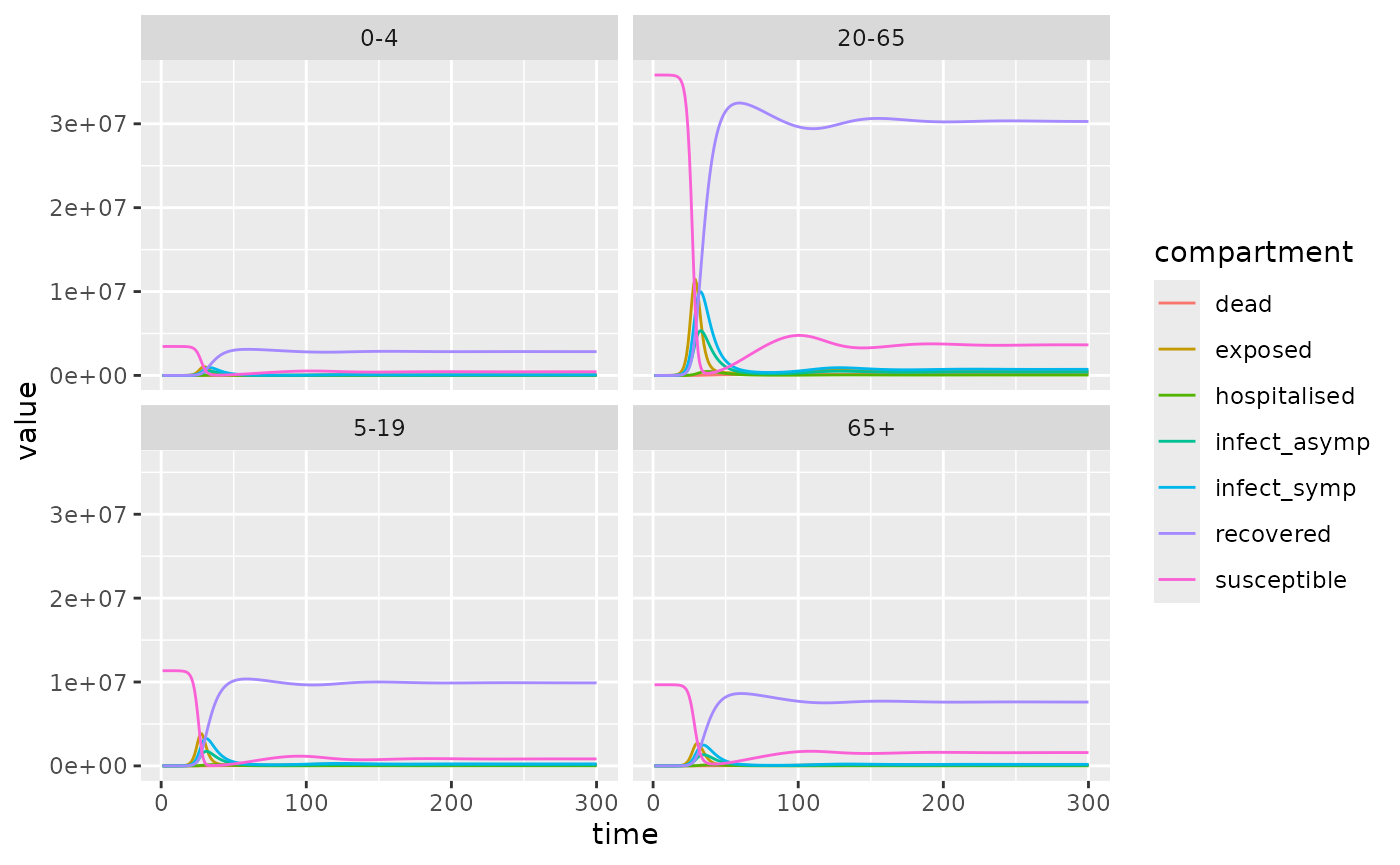
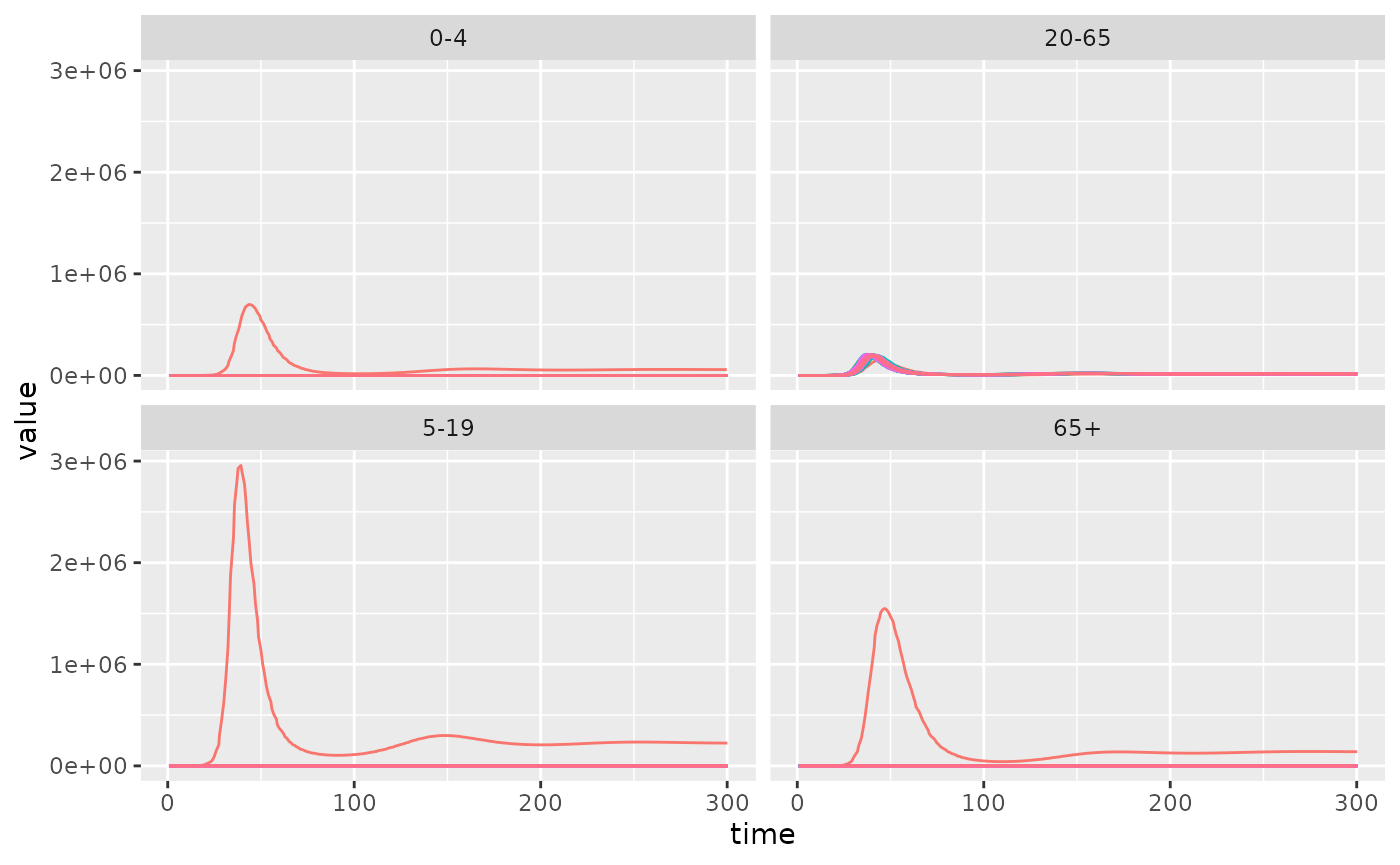
Deploying to gh-pages from @ jameel-institute/daedalus@c90a7111a481db7176b75cfc08c97fa4b471c24d 🚀

diff --git a/articles/daedalus.html b/articles/daedalus.html
@@ -72,7 +72,8 @@ R.</p>
 <p>Load a contact matrix for the U.K. from the <a href="https://cran.r-project.org/package=socialmixr" class="external-link"><em>socialmixr</em>
 package</a>.</p>
 <div class="sourceCode" id="cb2"><pre class="downlit sourceCode r">
-<code class="sourceCode R"><span><span class="va">polymod</span> <span class="op">&lt;-</span> <span class="fu">socialmixr</span><span class="fu">::</span><span class="va"><a href="https://epiforecasts.io/socialmixr/reference/polymod.html" class="external-link">polymod</a></span></span>
+<code class="sourceCode R"><span><span class="co"># NOTE: to be replaced with package data</span></span>
+<span><span class="va">polymod</span> <span class="op">&lt;-</span> <span class="fu">socialmixr</span><span class="fu">::</span><span class="va"><a href="https://epiforecasts.io/socialmixr/reference/polymod.html" class="external-link">polymod</a></span></span>
 <span><span class="co"># suppress messages that clog up test output</span></span>
 <span><span class="va">contact_data</span> <span class="op">&lt;-</span> <span class="fu">socialmixr</span><span class="fu">::</span><span class="fu"><a href="https://epiforecasts.io/socialmixr/reference/contact_matrix.html" class="external-link">contact_matrix</a></span><span class="op">(</span></span>
 <span>  <span class="va">polymod</span>,</span>
@@ -106,34 +107,69 @@ package</a>.</p>
 <span></span>
 <span><span class="co"># multiply by demography vector for absolute values</span></span>
 <span><span class="va">initial_state</span> <span class="op">&lt;-</span> <span class="va">initial_state</span> <span class="op">*</span> <span class="va">demography</span></span></code></pre></div>
+<p>Prepare the initial state container, a 3D tensor.</p>
+<p>Constants <code>N_AGE_GROUPS</code>, <code>N_EPI_COMPARTMENTS</code>,
+<code>N_ECON_SECTORS</code>, <code>i_NOT_WORKING</code> and
+<code>i_WORKING_AGE</code> are package constants.</p>
+<div class="sourceCode" id="cb3"><pre class="downlit sourceCode r">
+<code class="sourceCode R"><span><span class="co"># construct state array, all working age individuals are uniformly</span></span>
+<span><span class="co"># distributed into economic sectors including non-working (hence + 1)</span></span>
+<span><span class="va">state</span> <span class="op">&lt;-</span> <span class="fu"><a href="https://rdrr.io/r/base/array.html" class="external-link">array</a></span><span class="op">(</span></span>
+<span>  <span class="fl">0.0</span>, <span class="fu"><a href="https://rdrr.io/r/base/c.html" class="external-link">c</a></span><span class="op">(</span><span class="va">N_AGE_GROUPS</span>, <span class="va">N_EPI_COMPARTMENTS</span>, <span class="va">N_ECON_STRATA</span><span class="op">)</span></span>
+<span><span class="op">)</span></span>
+<span><span class="va">state</span><span class="op">[</span>, , <span class="va">i_NOT_WORKING</span><span class="op">]</span> <span class="op">&lt;-</span> <span class="va">initial_state</span></span>
+<span><span class="va">state</span><span class="op">[</span><span class="va">i_WORKING_AGE</span>, , <span class="op">]</span> <span class="op">&lt;-</span> <span class="fu"><a href="https://rdrr.io/r/base/matrix.html" class="external-link">matrix</a></span><span class="op">(</span></span>
+<span>  <span class="va">state</span><span class="op">[</span><span class="va">i_WORKING_AGE</span>, , <span class="va">i_NOT_WORKING</span><span class="op">]</span> <span class="op">*</span> <span class="fl">1.0</span> <span class="op">/</span> <span class="op">(</span><span class="va">N_ECON_STRATA</span><span class="op">)</span>,</span>
+<span>  nrow <span class="op">=</span> <span class="va">N_EPI_COMPARTMENTS</span>, ncol <span class="op">=</span> <span class="va">N_ECON_STRATA</span></span>
+<span><span class="op">)</span></span>
+<span></span>
+<span><span class="co"># prepare workplace contacts</span></span>
+<span><span class="va">cw</span> <span class="op">&lt;-</span> <span class="fu"><a href="https://rdrr.io/r/base/rep.html" class="external-link">rep</a></span><span class="op">(</span><span class="fl">5.0</span>, <span class="va">N_ECON_SECTORS</span><span class="op">)</span></span>
+<span></span>
+<span><span class="co"># prepare consumer worker contacts</span></span>
+<span><span class="va">consumer_contacts_per_sector</span> <span class="op">&lt;-</span> <span class="fu">withr</span><span class="fu">::</span><span class="fu"><a href="https://withr.r-lib.org/reference/with_seed.html" class="external-link">with_seed</a></span><span class="op">(</span></span>
+<span>  <span class="fl">0L</span>, <span class="fu"><a href="https://rdrr.io/r/stats/Uniform.html" class="external-link">runif</a></span><span class="op">(</span><span class="va">N_ECON_SECTORS</span>, min <span class="op">=</span> <span class="fl">5.0</span>, max <span class="op">=</span> <span class="fl">10.0</span><span class="op">)</span></span>
+<span><span class="op">)</span></span>
+<span><span class="va">cmcw</span> <span class="op">&lt;-</span> <span class="fu"><a href="https://rdrr.io/r/base/matrix.html" class="external-link">matrix</a></span><span class="op">(</span></span>
+<span>  <span class="va">consumer_contacts_per_sector</span>,</span>
+<span>  nrow <span class="op">=</span> <span class="va">N_ECON_SECTORS</span>, ncol <span class="op">=</span> <span class="va">N_AGE_GROUPS</span></span>
+<span><span class="op">)</span> <span class="op">*</span> <span class="va">demography</span> <span class="op">/</span> <span class="fu"><a href="https://rdrr.io/r/base/sum.html" class="external-link">sum</a></span><span class="op">(</span><span class="va">demography</span><span class="op">)</span></span></code></pre></div>
 </div>
 <div class="section level3">
 <h3 id="run-model">Run model<a class="anchor" aria-label="anchor" href="#run-model"></a>
 </h3>
 <p>The model runs for 100 timesteps (assumed to be days) by default.</p>
-<div class="sourceCode" id="cb3"><pre class="downlit sourceCode r">
+<div class="sourceCode" id="cb4"><pre class="downlit sourceCode r">
 <code class="sourceCode R"><span><span class="va">output</span> <span class="op">&lt;-</span> <span class="fu"><a href="../reference/daedalus.html">daedalus</a></span><span class="op">(</span></span>
-<span>  <span class="va">initial_state</span>,</span>
-<span>  parameters <span class="op">=</span> <span class="fu"><a href="../reference/default_parameters.html">default_parameters</a></span><span class="op">(</span>contact_matrix <span class="op">=</span> <span class="va">contact_matrix</span><span class="op">)</span></span>
+<span>  <span class="va">state</span>,</span>
+<span>  parameters <span class="op">=</span> <span class="fu"><a href="../reference/default_parameters.html">default_parameters</a></span><span class="op">(</span></span>
+<span>    contact_matrix <span class="op">=</span> <span class="va">contact_matrix</span>,</span>
+<span>    contacts_workplace <span class="op">=</span> <span class="va">cw</span>,</span>
+<span>    contacts_consumer_worker <span class="op">=</span> <span class="va">cmcw</span></span>
+<span>  <span class="op">)</span></span>
 <span><span class="op">)</span></span></code></pre></div>
 <p>Get the data in long or ‘tidy’ format using
 <code><a href="../reference/prepare_output.html">prepare_output()</a></code>.</p>
-<div class="sourceCode" id="cb4"><pre class="downlit sourceCode r">
+<div class="sourceCode" id="cb5"><pre class="downlit sourceCode r">
 <code class="sourceCode R"><span><span class="va">data</span> <span class="op">&lt;-</span> <span class="fu"><a href="../reference/prepare_output.html">prepare_output</a></span><span class="op">(</span><span class="va">output</span><span class="op">)</span></span>
 <span></span>
 <span><span class="fu"><a href="https://rdrr.io/r/utils/head.html" class="external-link">head</a></span><span class="op">(</span><span class="va">data</span><span class="op">)</span></span>
-<span><span class="co">#&gt;   time age_group compartment   value</span></span>
-<span><span class="co">#&gt; 1    1       0-4 susceptible 3453667</span></span>
-<span><span class="co">#&gt; 2    2       0-4 susceptible 3453661</span></span>
-<span><span class="co">#&gt; 3    3       0-4 susceptible 3453654</span></span>
-<span><span class="co">#&gt; 4    4       0-4 susceptible 3453643</span></span>
-<span><span class="co">#&gt; 5    5       0-4 susceptible 3453627</span></span>
-<span><span class="co">#&gt; 6    6       0-4 susceptible 3453599</span></span></code></pre></div>
+<span><span class="co">#&gt;   time age_group compartment econ_sector   value</span></span>
+<span><span class="co">#&gt; 1    1       0-4 susceptible    sector_0 3453667</span></span>
+<span><span class="co">#&gt; 2    2       0-4 susceptible    sector_0 3453664</span></span>
+<span><span class="co">#&gt; 3    3       0-4 susceptible    sector_0 3453661</span></span>
+<span><span class="co">#&gt; 4    4       0-4 susceptible    sector_0 3453658</span></span>
+<span><span class="co">#&gt; 5    5       0-4 susceptible    sector_0 3453654</span></span>
+<span><span class="co">#&gt; 6    6       0-4 susceptible    sector_0 3453647</span></span></code></pre></div>
 <p>Plot the data to view the epidemic curve.</p>
-<div class="sourceCode" id="cb5"><pre class="downlit sourceCode r">
-<code class="sourceCode R"><span><span class="fu"><a href="https://ggplot2.tidyverse.org/reference/ggplot.html" class="external-link">ggplot</a></span><span class="op">(</span><span class="va">data</span><span class="op">)</span> <span class="op">+</span></span>
+<div class="sourceCode" id="cb6"><pre class="downlit sourceCode r">
+<code class="sourceCode R"><span><span class="fu"><a href="https://ggplot2.tidyverse.org/reference/ggplot.html" class="external-link">ggplot</a></span><span class="op">(</span></span>
+<span>  <span class="va">data</span><span class="op">[</span><span class="va">data</span><span class="op">$</span><span class="va">compartment</span> <span class="op">==</span> <span class="st">"infect_symp"</span>, <span class="op">]</span></span>
+<span><span class="op">)</span> <span class="op">+</span></span>
 <span>  <span class="fu"><a href="https://ggplot2.tidyverse.org/reference/geom_path.html" class="external-link">geom_line</a></span><span class="op">(</span></span>
-<span>    <span class="fu"><a href="https://ggplot2.tidyverse.org/reference/aes.html" class="external-link">aes</a></span><span class="op">(</span><span class="va">time</span>, <span class="va">value</span>, colour <span class="op">=</span> <span class="va">compartment</span><span class="op">)</span></span>
+<span>    <span class="fu"><a href="https://ggplot2.tidyverse.org/reference/aes.html" class="external-link">aes</a></span><span class="op">(</span><span class="va">time</span>, <span class="va">value</span>, colour <span class="op">=</span> <span class="va">econ_sector</span><span class="op">)</span>,</span>
+<span>    show.legend <span class="op">=</span> <span class="cn">FALSE</span>,</span>
+<span>    position <span class="op">=</span> <span class="st">"jitter"</span></span>
 <span>  <span class="op">)</span> <span class="op">+</span></span>
 <span>  <span class="fu"><a href="https://ggplot2.tidyverse.org/reference/facet_wrap.html" class="external-link">facet_wrap</a></span><span class="op">(</span></span>
 <span>    facets <span class="op">=</span> <span class="fu"><a href="https://ggplot2.tidyverse.org/reference/vars.html" class="external-link">vars</a></span><span class="op">(</span><span class="va">age_group</span><span class="op">)</span></span>

diff --git a/index.html b/index.html
@@ -106,28 +106,60 @@
 <span></span>
 <span><span class="co"># multiply by demography vector for absolute values</span></span>
 <span><span class="va">initial_state</span> <span class="op">&lt;-</span> <span class="va">initial_state</span> <span class="op">*</span> <span class="va">demography</span></span></code></pre></div>
+<p>Prepare the initial state container, a 3D tensor.</p>
+<p>Constants <code>N_AGE_GROUPS</code>, <code>N_EPI_COMPARTMENTS</code>, <code>N_ECON_SECTORS</code>, <code>i_NOT_WORKING</code> and <code>i_WORKING_AGE</code> are package constants.</p>
+<div class="sourceCode" id="cb4"><pre class="downlit sourceCode r">
+<code class="sourceCode R"><span><span class="co"># construct state array, all working age individuals are uniformly</span></span>
+<span><span class="co"># distributed into economic sectors including non-working</span></span>
+<span><span class="va">state</span> <span class="op">&lt;-</span> <span class="fu"><a href="https://rdrr.io/r/base/array.html" class="external-link">array</a></span><span class="op">(</span></span>
+<span>  <span class="fl">0.0</span>,</span>
+<span>  dim <span class="op">=</span> <span class="fu"><a href="https://rdrr.io/r/base/c.html" class="external-link">c</a></span><span class="op">(</span><span class="va">N_AGE_GROUPS</span>, <span class="va">N_EPI_COMPARTMENTS</span>, <span class="va">N_ECON_STRATA</span><span class="op">)</span></span>
+<span><span class="op">)</span></span>
+<span><span class="va">state</span><span class="op">[</span>, , <span class="va">i_NOT_WORKING</span><span class="op">]</span> <span class="op">&lt;-</span> <span class="va">initial_state</span></span>
+<span><span class="va">state</span><span class="op">[</span><span class="va">i_WORKING_AGE</span>, , <span class="op">]</span> <span class="op">&lt;-</span> <span class="fu"><a href="https://rdrr.io/r/base/matrix.html" class="external-link">matrix</a></span><span class="op">(</span></span>
+<span>  <span class="va">state</span><span class="op">[</span><span class="va">i_WORKING_AGE</span>, , <span class="va">i_NOT_WORKING</span><span class="op">]</span> <span class="op">*</span> <span class="fl">1.0</span> <span class="op">/</span> <span class="va">N_ECON_STRATA</span>,</span>
+<span>  nrow <span class="op">=</span> <span class="va">N_EPI_COMPARTMENTS</span>, ncol <span class="op">=</span> <span class="va">N_ECON_STRATA</span></span>
+<span><span class="op">)</span></span>
+<span></span>
+<span><span class="co"># prepare workplace contacts</span></span>
+<span><span class="va">cw</span> <span class="op">&lt;-</span> <span class="fu"><a href="https://rdrr.io/r/base/c.html" class="external-link">c</a></span><span class="op">(</span><span class="fl">0.0</span>, <span class="fu"><a href="https://rdrr.io/r/base/rep.html" class="external-link">rep</a></span><span class="op">(</span><span class="fl">5.0</span>, <span class="va">N_ECON_SECTORS</span> <span class="op">-</span> <span class="fl">1L</span><span class="op">)</span><span class="op">)</span> <span class="co"># no work contacts for non-working</span></span>
+<span></span>
+<span><span class="co"># prepare consumer worker contacts</span></span>
+<span><span class="va">consumer_contacts_per_sector</span> <span class="op">&lt;-</span> <span class="fu">withr</span><span class="fu">::</span><span class="fu"><a href="https://withr.r-lib.org/reference/with_seed.html" class="external-link">with_seed</a></span><span class="op">(</span></span>
+<span>  <span class="fl">0L</span>,</span>
+<span>  <span class="fu">stats</span><span class="fu">::</span><span class="fu"><a href="https://rdrr.io/r/stats/Uniform.html" class="external-link">runif</a></span><span class="op">(</span><span class="va">N_ECON_SECTORS</span>, min <span class="op">=</span> <span class="fl">5.0</span>, max <span class="op">=</span> <span class="fl">10.0</span><span class="op">)</span></span>
+<span><span class="op">)</span></span>
+<span><span class="va">consumer_contacts_per_sector</span><span class="op">[</span><span class="va">i_NOT_WORKING</span><span class="op">]</span> <span class="op">&lt;-</span> <span class="fl">0.0</span></span>
+<span><span class="va">cmcw</span> <span class="op">&lt;-</span> <span class="fu"><a href="https://rdrr.io/r/base/matrix.html" class="external-link">matrix</a></span><span class="op">(</span></span>
+<span>  <span class="va">consumer_contacts_per_sector</span>,</span>
+<span>  nrow <span class="op">=</span> <span class="va">N_ECON_SECTORS</span>, ncol <span class="op">=</span> <span class="va">N_AGE_GROUPS</span></span>
+<span><span class="op">)</span> <span class="op">*</span> <span class="va">demography</span> <span class="op">/</span> <span class="fu"><a href="https://rdrr.io/r/base/sum.html" class="external-link">sum</a></span><span class="op">(</span><span class="va">demography</span><span class="op">)</span></span></code></pre></div>
 </div>
 <div class="section level3">
 <h3 id="run-model">Run model<a class="anchor" aria-label="anchor" href="#run-model"></a>
 </h3>
 <p>The model runs for 100 timesteps (assumed to be days) by default.</p>
-<div class="sourceCode" id="cb4"><pre class="downlit sourceCode r">
+<div class="sourceCode" id="cb5"><pre class="downlit sourceCode r">
 <code class="sourceCode R"><span><span class="va">output</span> <span class="op">&lt;-</span> <span class="fu"><a href="reference/daedalus.html">daedalus</a></span><span class="op">(</span></span>
-<span>  <span class="va">initial_state</span>,</span>
-<span>  parameters <span class="op">=</span> <span class="fu"><a href="reference/default_parameters.html">default_parameters</a></span><span class="op">(</span>contact_matrix <span class="op">=</span> <span class="va">contact_matrix</span><span class="op">)</span></span>
+<span>  <span class="va">state</span>,</span>
+<span>  parameters <span class="op">=</span> <span class="fu"><a href="reference/default_parameters.html">default_parameters</a></span><span class="op">(</span></span>
+<span>    contact_matrix <span class="op">=</span> <span class="va">contact_matrix</span>,</span>
+<span>    contacts_workplace <span class="op">=</span> <span class="va">cw</span>,</span>
+<span>    contacts_consumer_worker <span class="op">=</span> <span class="va">cmcw</span></span>
+<span>  <span class="op">)</span></span>
 <span><span class="op">)</span></span></code></pre></div>
 <p>Get the data in long or ‘tidy’ format using <code><a href="reference/prepare_output.html">prepare_output()</a></code>.</p>
-<div class="sourceCode" id="cb5"><pre class="downlit sourceCode r">
+<div class="sourceCode" id="cb6"><pre class="downlit sourceCode r">
 <code class="sourceCode R"><span><span class="va">data</span> <span class="op">&lt;-</span> <span class="fu"><a href="reference/prepare_output.html">prepare_output</a></span><span class="op">(</span><span class="va">output</span><span class="op">)</span></span>
 <span></span>
 <span><span class="fu"><a href="https://rdrr.io/r/utils/head.html" class="external-link">head</a></span><span class="op">(</span><span class="va">data</span><span class="op">)</span></span>
-<span><span class="co">#&gt;   time age_group compartment   value</span></span>
-<span><span class="co">#&gt; 1    1       0-4 susceptible 3453667</span></span>
-<span><span class="co">#&gt; 2    2       0-4 susceptible 3453661</span></span>
-<span><span class="co">#&gt; 3    3       0-4 susceptible 3453654</span></span>
-<span><span class="co">#&gt; 4    4       0-4 susceptible 3453643</span></span>
-<span><span class="co">#&gt; 5    5       0-4 susceptible 3453627</span></span>
-<span><span class="co">#&gt; 6    6       0-4 susceptible 3453599</span></span></code></pre></div>
+<span><span class="co">#&gt;   time age_group compartment econ_sector   value</span></span>
+<span><span class="co">#&gt; 1    1       0-4 susceptible    sector_0 3453667</span></span>
+<span><span class="co">#&gt; 2    2       0-4 susceptible    sector_0 3453664</span></span>
+<span><span class="co">#&gt; 3    3       0-4 susceptible    sector_0 3453661</span></span>
+<span><span class="co">#&gt; 4    4       0-4 susceptible    sector_0 3453658</span></span>
+<span><span class="co">#&gt; 5    5       0-4 susceptible    sector_0 3453654</span></span>
+<span><span class="co">#&gt; 6    6       0-4 susceptible    sector_0 3453647</span></span></code></pre></div>
 </div>
 </div>
 <div class="section level2">
@@ -138,9 +170,9 @@
 <div class="section level2">
 <h2 id="references">References<a class="anchor" aria-label="anchor" href="#references"></a>
 </h2>
-<div id="refs" class="references csl-bib-body hanging-indent" entry-spacing="0">
-<div id="ref-haw2022" class="csl-entry">
-Haw, David J., Giovanni Forchini, Patrick Doohan, Paula Christen, Matteo Pianella, Robert Johnson, Sumali Bajaj, et al. 2022. “Optimizing Social and Economic Activity While Containing SARS-CoV-2 Transmission Using DAEDALUS.” <em>Nature Computational Science</em> 2 (4): 223–33. <a href="https://doi.org/10.1038/s43588-022-00233-0" class="external-link uri">https://doi.org/10.1038/s43588-022-00233-0</a>.
+<div id="refs" class="references hanging-indent">
+<div id="ref-haw2022">
+<p>Haw, David J., Giovanni Forchini, Patrick Doohan, Paula Christen, Matteo Pianella, Robert Johnson, Sumali Bajaj, et al. 2022. “Optimizing Social and Economic Activity While Containing SARS-CoV-2 Transmission Using DAEDALUS.” <em>Nature Computational Science</em> 2 (4): 223–33. <a href="https://doi.org/10.1038/s43588-022-00233-0" class="external-link uri">https://doi.org/10.1038/s43588-022-00233-0</a>.</p>
 </div>
 </div>
 </div>

diff --git a/reference/default_parameters.html b/reference/default_parameters.html
@@ -1,5 +1,7 @@
 <!DOCTYPE html>
-<!-- Generated by pkgdown: do not edit by hand --><html lang="en"><head><meta http-equiv="Content-Type" content="text/html; charset=UTF-8"><meta charset="utf-8"><meta http-equiv="X-UA-Compatible" content="IE=edge"><meta name="viewport" content="width=device-width, initial-scale=1, shrink-to-fit=no"><title>Default parameters for DAEDALUS — default_parameters • daedalus</title><script src="../deps/jquery-3.6.0/jquery-3.6.0.min.js"></script><meta name="viewport" content="width=device-width, initial-scale=1, shrink-to-fit=no"><link href="../deps/bootstrap-5.3.1/bootstrap.min.css" rel="stylesheet"><script src="../deps/bootstrap-5.3.1/bootstrap.bundle.min.js"></script><link href="../deps/font-awesome-6.4.2/css/all.min.css" rel="stylesheet"><link href="../deps/font-awesome-6.4.2/css/v4-shims.min.css" rel="stylesheet"><script src="../deps/headroom-0.11.0/headroom.min.js"></script><script src="../deps/headroom-0.11.0/jQuery.headroom.min.js"></script><script src="../deps/bootstrap-toc-1.0.1/bootstrap-toc.min.js"></script><script src="../deps/clipboard.js-2.0.11/clipboard.min.js"></script><script src="../deps/search-1.0.0/autocomplete.jquery.min.js"></script><script src="../deps/search-1.0.0/fuse.min.js"></script><script src="../deps/search-1.0.0/mark.min.js"></script><!-- pkgdown --><script src="../pkgdown.js"></script><meta property="og:title" content="Default parameters for DAEDALUS — default_parameters"><meta name="description" content="Default parameters for DAEDALUS"><meta property="og:description" content="Default parameters for DAEDALUS"></head><body>
+<!-- Generated by pkgdown: do not edit by hand --><html lang="en"><head><meta http-equiv="Content-Type" content="text/html; charset=UTF-8"><meta charset="utf-8"><meta http-equiv="X-UA-Compatible" content="IE=edge"><meta name="viewport" content="width=device-width, initial-scale=1, shrink-to-fit=no"><title>Default parameters for DAEDALUS — default_parameters • daedalus</title><script src="../deps/jquery-3.6.0/jquery-3.6.0.min.js"></script><meta name="viewport" content="width=device-width, initial-scale=1, shrink-to-fit=no"><link href="../deps/bootstrap-5.3.1/bootstrap.min.css" rel="stylesheet"><script src="../deps/bootstrap-5.3.1/bootstrap.bundle.min.js"></script><link href="../deps/font-awesome-6.4.2/css/all.min.css" rel="stylesheet"><link href="../deps/font-awesome-6.4.2/css/v4-shims.min.css" rel="stylesheet"><script src="../deps/headroom-0.11.0/headroom.min.js"></script><script src="../deps/headroom-0.11.0/jQuery.headroom.min.js"></script><script src="../deps/bootstrap-toc-1.0.1/bootstrap-toc.min.js"></script><script src="../deps/clipboard.js-2.0.11/clipboard.min.js"></script><script src="../deps/search-1.0.0/autocomplete.jquery.min.js"></script><script src="../deps/search-1.0.0/fuse.min.js"></script><script src="../deps/search-1.0.0/mark.min.js"></script><!-- pkgdown --><script src="../pkgdown.js"></script><meta property="og:title" content="Default parameters for DAEDALUS — default_parameters"><meta name="description" content="Useful defaults for the DAEDALUS model for use during
+development."><meta property="og:description" content="Useful defaults for the DAEDALUS model for use during
+development."></head><body>
     <a href="#main" class="visually-hidden-focusable">Skip to contents</a>
 
 
@@ -35,7 +37,8 @@
     </div>
 
     <div class="ref-description section level2">
-    <p>Default parameters for DAEDALUS</p>
+    <p>Useful defaults for the DAEDALUS model for use during
+development.</p>
     </div>
 
     <div class="section level2">
@@ -85,6 +88,58 @@
 <span class="r-out co"><span class="r-pr">#&gt;</span> [2,]    1    1    1    1</span>
 <span class="r-out co"><span class="r-pr">#&gt;</span> [3,]    1    1    1    1</span>
 <span class="r-out co"><span class="r-pr">#&gt;</span> [4,]    1    1    1    1</span>
+<span class="r-out co"><span class="r-pr">#&gt;</span> </span>
+<span class="r-out co"><span class="r-pr">#&gt;</span> $contacts_workplace</span>
+<span class="r-out co"><span class="r-pr">#&gt;</span>  [1] 10 10 10 10 10 10 10 10 10 10 10 10 10 10 10 10 10 10 10 10 10 10 10 10 10</span>
+<span class="r-out co"><span class="r-pr">#&gt;</span> [26] 10 10 10 10 10 10 10 10 10 10 10 10 10 10 10 10 10 10 10</span>
+<span class="r-out co"><span class="r-pr">#&gt;</span> </span>
+<span class="r-out co"><span class="r-pr">#&gt;</span> $contacts_consumer_worker</span>
+<span class="r-out co"><span class="r-pr">#&gt;</span>       [,1] [,2] [,3] [,4]</span>
+<span class="r-out co"><span class="r-pr">#&gt;</span>  [1,]    1    1    1    1</span>
+<span class="r-out co"><span class="r-pr">#&gt;</span>  [2,]    1    1    1    1</span>
+<span class="r-out co"><span class="r-pr">#&gt;</span>  [3,]    1    1    1    1</span>
+<span class="r-out co"><span class="r-pr">#&gt;</span>  [4,]    1    1    1    1</span>
+<span class="r-out co"><span class="r-pr">#&gt;</span>  [5,]    1    1    1    1</span>
+<span class="r-out co"><span class="r-pr">#&gt;</span>  [6,]    1    1    1    1</span>
+<span class="r-out co"><span class="r-pr">#&gt;</span>  [7,]    1    1    1    1</span>
+<span class="r-out co"><span class="r-pr">#&gt;</span>  [8,]    1    1    1    1</span>
+<span class="r-out co"><span class="r-pr">#&gt;</span>  [9,]    1    1    1    1</span>
+<span class="r-out co"><span class="r-pr">#&gt;</span> [10,]    1    1    1    1</span>
+<span class="r-out co"><span class="r-pr">#&gt;</span> [11,]    1    1    1    1</span>
+<span class="r-out co"><span class="r-pr">#&gt;</span> [12,]    1    1    1    1</span>
+<span class="r-out co"><span class="r-pr">#&gt;</span> [13,]    1    1    1    1</span>
+<span class="r-out co"><span class="r-pr">#&gt;</span> [14,]    1    1    1    1</span>
+<span class="r-out co"><span class="r-pr">#&gt;</span> [15,]    1    1    1    1</span>
+<span class="r-out co"><span class="r-pr">#&gt;</span> [16,]    1    1    1    1</span>
+<span class="r-out co"><span class="r-pr">#&gt;</span> [17,]    1    1    1    1</span>
+<span class="r-out co"><span class="r-pr">#&gt;</span> [18,]    1    1    1    1</span>
+<span class="r-out co"><span class="r-pr">#&gt;</span> [19,]    1    1    1    1</span>
+<span class="r-out co"><span class="r-pr">#&gt;</span> [20,]    1    1    1    1</span>
+<span class="r-out co"><span class="r-pr">#&gt;</span> [21,]    1    1    1    1</span>
+<span class="r-out co"><span class="r-pr">#&gt;</span> [22,]    1    1    1    1</span>
+<span class="r-out co"><span class="r-pr">#&gt;</span> [23,]    1    1    1    1</span>
+<span class="r-out co"><span class="r-pr">#&gt;</span> [24,]    1    1    1    1</span>
+<span class="r-out co"><span class="r-pr">#&gt;</span> [25,]    1    1    1    1</span>
+<span class="r-out co"><span class="r-pr">#&gt;</span> [26,]    1    1    1    1</span>
+<span class="r-out co"><span class="r-pr">#&gt;</span> [27,]    1    1    1    1</span>
+<span class="r-out co"><span class="r-pr">#&gt;</span> [28,]    1    1    1    1</span>
+<span class="r-out co"><span class="r-pr">#&gt;</span> [29,]    1    1    1    1</span>
+<span class="r-out co"><span class="r-pr">#&gt;</span> [30,]    1    1    1    1</span>
+<span class="r-out co"><span class="r-pr">#&gt;</span> [31,]    1    1    1    1</span>
+<span class="r-out co"><span class="r-pr">#&gt;</span> [32,]    1    1    1    1</span>
+<span class="r-out co"><span class="r-pr">#&gt;</span> [33,]    1    1    1    1</span>
+<span class="r-out co"><span class="r-pr">#&gt;</span> [34,]    1    1    1    1</span>
+<span class="r-out co"><span class="r-pr">#&gt;</span> [35,]    1    1    1    1</span>
+<span class="r-out co"><span class="r-pr">#&gt;</span> [36,]    1    1    1    1</span>
+<span class="r-out co"><span class="r-pr">#&gt;</span> [37,]    1    1    1    1</span>
+<span class="r-out co"><span class="r-pr">#&gt;</span> [38,]    1    1    1    1</span>
+<span class="r-out co"><span class="r-pr">#&gt;</span> [39,]    1    1    1    1</span>
+<span class="r-out co"><span class="r-pr">#&gt;</span> [40,]    1    1    1    1</span>
+<span class="r-out co"><span class="r-pr">#&gt;</span> [41,]    1    1    1    1</span>
+<span class="r-out co"><span class="r-pr">#&gt;</span> [42,]    1    1    1    1</span>
+<span class="r-out co"><span class="r-pr">#&gt;</span> [43,]    1    1    1    1</span>
+<span class="r-out co"><span class="r-pr">#&gt;</span> [44,]    1    1    1    1</span>
+<span class="r-out co"><span class="r-pr">#&gt;</span> [45,]    1    1    1    1</span>
 <span class="r-out co"><span class="r-pr">#&gt;</span> </span>
 </code></pre></div>
     </div>

diff --git a/reference/model_constants.html b/reference/model_constants.html
@@ -50,7 +50,23 @@ specific to the epidemiological model.</p>
 <span></span>
 <span><span class="va">N_VACCINE_STRATA</span></span>
 <span></span>
-<span><span class="va">AGE_GROUPS</span></span></code></pre></div>
+<span><span class="va">AGE_GROUPS</span></span>
+<span></span>
+<span><span class="va">i_WORKING_AGE</span></span>
+<span></span>
+<span><span class="va">N_ECON_SECTORS</span></span>
+<span></span>
+<span><span class="va">N_ECON_STRATA</span></span>
+<span></span>
+<span><span class="va">i_NOT_WORKING</span></span>
+<span></span>
+<span><span class="va">DIM_AGE_GROUPS</span></span>
+<span></span>
+<span><span class="va">DIM_EPI_COMPARTMENTS</span></span>
+<span></span>
+<span><span class="va">DIM_ECON_SECTORS</span></span>
+<span></span>
+<span><span class="va">N_OUTPUT_COLS</span></span></code></pre></div>
     </div>
 
     <div class="section level2">
@@ -58,6 +74,14 @@ specific to the epidemiological model.</p>
     <p>An object of class <code>integer</code> of length 1.</p>
 <p>An object of class <code>integer</code> of length 1.</p>
 <p>An object of class <code>character</code> of length 4.</p>
+<p>An object of class <code>integer</code> of length 1.</p>
+<p>An object of class <code>integer</code> of length 1.</p>
+<p>An object of class <code>integer</code> of length 1.</p>
+<p>An object of class <code>integer</code> of length 1.</p>
+<p>An object of class <code>integer</code> of length 1.</p>
+<p>An object of class <code>integer</code> of length 1.</p>
+<p>An object of class <code>integer</code> of length 1.</p>
+<p>An object of class <code>integer</code> of length 1.</p>
     </div>
     <div class="section level2">
     <h2 id="value">Value<a class="anchor" aria-label="anchor" href="#value"></a></h2>
@@ -68,6 +92,16 @@ specific to the epidemiological model.</p>
     <p>The DAEDALUS model requires the following values to be fixed.</p><ul><li><p>Number of age groups: 4</p></li>
 <li><p>Number of vaccination strata: 1</p></li>
 <li><p>Age group bins: 0-4 years, 5-19 years, 20-65 years (working age), 65+ years</p></li>
+<li><p>Index of the working-age age groups: 3; see <code>AGE_GROUPS</code></p></li>
+<li><p>Number of economic sectors: 45</p></li>
+<li><p>Index of individuals not working as a layer in the 3D state tensor: 1</p></li>
+<li><p>Number of economic strata: 46; note that this is always one more than the
+number of economic sectors, with the additional stratum for those not in work
+which includes all individuals not of working age, and a proportion of
+working age individuals.</p></li>
+<li><p>Array dimension of age groups: 1</p></li>
+<li><p>Array dimension of epidemiological compartments: 2</p></li>
+<li><p>Array dimension of economic sectors: 3</p></li>
 </ul></div>
 
   </main><aside class="col-md-3"><nav id="toc" aria-label="Table of contents"><h2>On this page</h2>

diff --git a/reference/prepare_output.html b/reference/prepare_output.html
@@ -54,9 +54,17 @@
     <div class="section level2">
     <h2 id="value">Value<a class="anchor" aria-label="anchor" href="#value"></a></h2>
     <p>A <code>&lt;data.frame&gt;</code> in long or 'tidy' format with the columns
-"time", "age_group", "compartment", and "value", for the age-group specific
-value of the number of individuals in each epidemiological compartment in
-each timestep.</p>
+"time", "age_group", "compartment", "econ_sector", and "value", for the
+age-group specific value of the number of individuals in each economic sector
+and epidemiological compartment in each timestep.</p>
+    </div>
+    <div class="section level2">
+    <h2 id="details">Details<a class="anchor" aria-label="anchor" href="#details"></a></h2>
+    <p>There are 45 economic sectors, given by <code>N_ECON_SECTORS</code>, with the first
+'sector' representing non-working individuals. All age groups that are
+considered non-working are in this first sector (children and retirees),
+while working-age individuals may be distributed flexibly into the various
+economic sectors (including non-working).</p>
     </div>
 
   </main><aside class="col-md-3"><nav id="toc" aria-label="Table of contents"><h2>On this page</h2>

diff --git a/reference/daedalus.html b/reference/daedalus.html
@@ -48,9 +48,9 @@
 
 
 <dl><dt id="arg-initial-state">initial_state<a class="anchor" aria-label="anchor" href="#arg-initial-state"></a></dt>
-<dd><p>The initial state of the population as a numeric matrix
-where rows represent age groups and columns represent epidemiological
-compartments.</p></dd>
+<dd><p>The initial state of the population as a numeric array
+where rows represent age groups, columns represent epidemiological
+compartments, and layers represent economic sectors.</p></dd>
 
 
 <dt id="arg-time-end">time_end<a class="anchor" aria-label="anchor" href="#arg-time-end"></a></dt>
